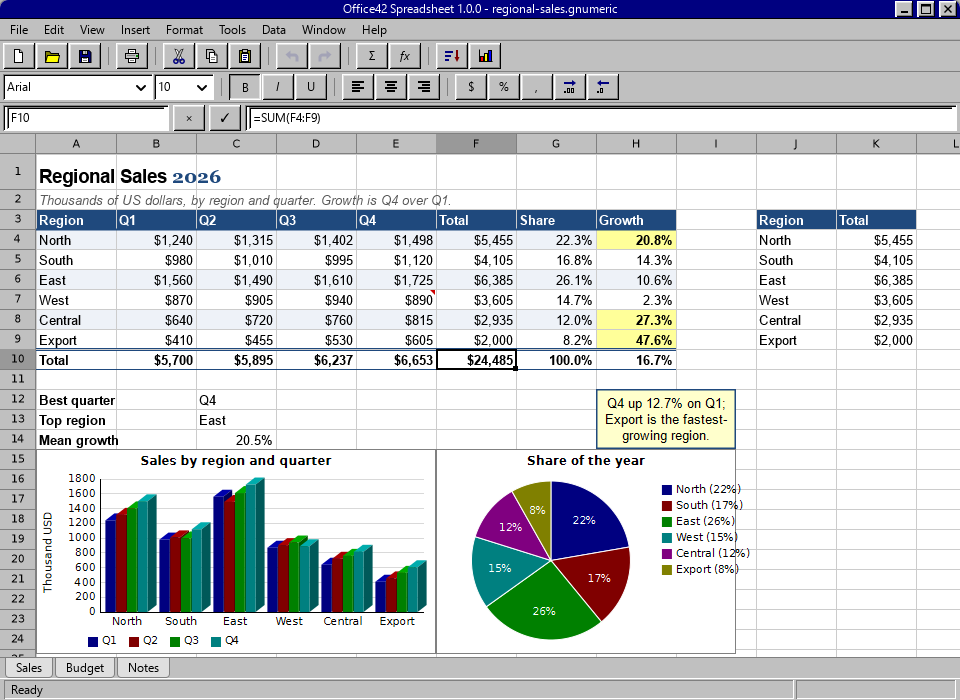
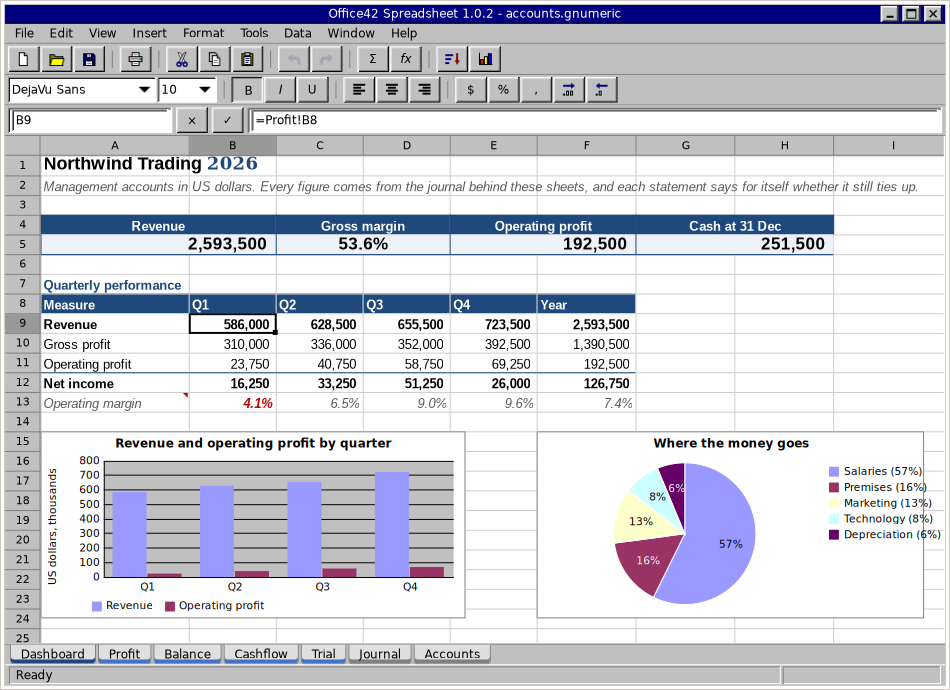
The website catches up with main: Excel 97, 637 functions, 1.0.2 and the accounts
main now aims at Excel 97 rather than Excel 5, and the site says so
in the title, the description, the hero and the goals, where Excel 97
leads and Gnumeric is the standard the arithmetic is held to.  The
numbers strip has 637 functions and Gnumeric's grid of 16,777,216
rows.  The features grid is twelve cards drawn from the README and the
guide as they stand: the Format Cells tabs and the Accounting format,
the reference operators, auditing and the Watch Window, pie of pie,
Excel 97's chart colours, AutoShapes and freeforms, the data form,
live What-If tables and the Solver's whole numbers, money and dates
(EUROCONVERT, the 1904 system, precision as displayed, the templates),
.xlsx Strict and .xlsm, Page Setup's four tabs and Page Break Preview,
Alt+F8, events and the step debugger, and the shared smoke test.
PARITY.md's own score -- over 99% of Excel 97, about 98% of Gnumeric
-- introduces them.

The download section names 1.0.2 and links the release notes, gives
the smoke-test command, no longer says macOS builds with --werror (it
does not), and says the samples now include the accounts book.

The picture is the one main's README shows -- the dashboard of
samples/accounts.gnumeric with =Profit!B8 in the formula bar -- taken
with the 1.0.2 release, so the title bar reads 1.0.2 rather than
main's 1.0.2-dev.  It is 950 by 690, and the img says so.

Checked: built the 1.0.2 tag (517ea16) and the merged tree against
[…]

diff --git a/index.html b/index.html
@@ -3,12 +3,12 @@
 <head>
 <meta charset="utf-8">
 <meta name="viewport" content="width=device-width, initial-scale=1">
-<title>Office42 Spreadsheet — a spreadsheet in the shape of Excel 5</title>
-<meta name="description" content="Office42 Spreadsheet is a spreadsheet in the shape of Excel 5 and at parity with Gnumeric, written from scratch in C on GTK 4, Pango and Cairo. 610 functions, charts, pivot tables, Python scripting, and .gnumeric, .xlsx, .xls, .ods and CSV files. Free software, GPL-3.0-or-later.">
+<title>Office42 Spreadsheet — a spreadsheet in the shape of Excel 97</title>
+<meta name="description" content="Office42 Spreadsheet is a spreadsheet in the shape of Excel 97, at feature parity with it and with Gnumeric, written from scratch in C on GTK 4, Pango and Cairo. 637 functions, charts, pivot tables, Python scripting, and .gnumeric, .xlsx, .xls, .ods and CSV files. Free software, GPL-3.0-or-later.">
 <link rel="canonical" href="https://office42.net/">
 <meta property="og:type" content="website">
-<meta property="og:title" content="Office42 Spreadsheet — a spreadsheet in the shape of Excel 5">
-<meta property="og:description" content="A spreadsheet in the shape of Excel 5 and at parity with Gnumeric, written from scratch in C on GTK 4, Pango and Cairo. Free software, GPL-3.0-or-later.">
+<meta property="og:title" content="Office42 Spreadsheet — a spreadsheet in the shape of Excel 97">
+<meta property="og:description" content="A spreadsheet in the shape of Excel 97, at feature parity with it and with Gnumeric, written from scratch in C on GTK 4, Pango and Cairo. Free software, GPL-3.0-or-later.">
 <meta property="og:url" content="https://office42.net/">
 <meta property="og:image" content="https://office42.net/images/screenshot.png">
 <meta name="twitter:card" content="summary_large_image">
@@ -212,20 +212,21 @@
           <img class="logo" src="images/logo.svg" width="520" height="150"
                alt="Office42 Spreadsheet: a sheet of cells marked 42, beside the name in light blue with one rule under it">
         </h1>
-        <p class="lead">A spreadsheet in the shape of Excel&nbsp;5 and at parity with Gnumeric,
-        written from scratch in C on GTK&nbsp;4, Pango and Cairo. A grid, a formula bar, a name
-        box, two toolbars and sheet tabs along the bottom. No ribbon.</p>
+        <p class="lead">A spreadsheet in the shape of Excel&nbsp;97, at feature parity with it
+        and with Gnumeric, written from scratch in C on GTK&nbsp;4, Pango and Cairo. A grid, a
+        formula bar, a name box, two toolbars and sheet tabs along the bottom. No ribbon.</p>
         <p>The sister project of <a href="https://word42.org/">Word42</a>, built on the same
-        principles: a small, honest codebase that does one thing well.</p>
+        principles: a small, honest codebase that does one thing well. Numbers42 is its other
+        name, and means the same program.</p>
         <p style="margin-top:1.5rem">
           <a class="btn btn-solid" href="#download">Get it</a>
           <a class="btn btn-outline" href="https://github.com/office-42/office42">View on GitHub</a>
         </p>
       </div>
       <figure>
-        <img class="screenshot" src="images/screenshot.png" width="960" height="700"
-             alt="Office42 Spreadsheet showing a regional sales sheet: a title set in two fonts in one cell, a styled heading row, currency and percent formats, a total row with SUM and INDEX/MATCH formulas, conditional formats on the growth column, a note, a text box, frozen panes, a three-dimensional column chart, a pie chart with labels, and three sheet tabs">
-        <figcaption class="muted small"><em>A regional sales book: conditional formats, a note, frozen panes, a three-dimensional column chart, a pie chart and three sheet tabs.</em></figcaption>
+        <img class="screenshot" src="images/screenshot.png" width="950" height="690"
+             alt="Office42 Spreadsheet 1.0.2 showing the dashboard of a set of accounts: a title set in two fonts in one cell, a strip of four merged key figures — revenue, gross margin, operating profit and cash — over a quarterly table in the Accounting number format, an operating margin row with a conditional format on the weakest quarter and a note attached, the formula bar showing the cross-sheet formula =Profit!B8, a column chart of revenue and operating profit by quarter with its axis in thousands, a pie chart of operating expenses with labels and a legend, and seven coloured sheet tabs — Dashboard, Profit, Balance, Cashflow, Trial, Journal and Accounts">
+        <figcaption class="muted small"><em>A year of a trading company's accounts on seven sheets, every figure drawn from one journal: this is the dashboard, with a cross-sheet formula in the formula bar.</em></figcaption>
       </figure>
     </div>
   </div>
@@ -233,8 +234,8 @@
 
 <div class="numbers">
   <div class="container">
-    <div><strong>610</strong><span>functions, every one Excel 2003 has and Gnumeric's own besides</span></div>
-    <div><strong>1,048,576 × 16,384</strong><span>rows by columns, and an empty cell costs nothing</span></div>
+    <div><strong>637</strong><span>functions, every one Excel 2003 has and Gnumeric's own besides</span></div>
+    <div><strong>16,777,216 × 16,384</strong><span>rows by columns, Gnumeric's grid, and an empty cell costs nothing</span></div>
     <div><strong>17</strong><span>kinds of chart, in two or three dimensions</span></div>
     <div><strong>3</strong><span>platforms built on every push: Linux, macOS and Windows</span></div>
   </div>
@@ -245,7 +246,8 @@
     <h2>What it does</h2>
     <p class="muted">A working spreadsheet, not a demo. Everything below ships today, and
     <a href="https://github.com/office-42/office42/blob/main/docs/PARITY.md">docs/PARITY.md</a>
-    is an honest estimate of how far it is from Excel and from Gnumeric.</p>
+    keeps the score menu by menu: an honest estimate of over 99% of Excel&nbsp;97, and about
+    98% of Gnumeric.</p>
     <div class="grid">
       <div>
         <h3>The window</h3>
@@ -253,82 +255,118 @@
           <li>Excel's keys: Enter steps down, Tab steps right, Tab-Tab-Enter returns to the column the row began in</li>
           <li>The formula bar is the same edit as the cell, every reference in its own colour</li>
           <li>Function names offered as you type, and the signature of the call the caret is in</li>
-          <li>Point mode, F4 on the dollars, the fill handle, drag-and-drop, AutoComplete</li>
-          <li>Zoom, freeze and split panes, custom views, outline groups, a second window on the same book</li>
+          <li>Point mode, F4 on the dollars, the fill handle, drag-and-drop, AutoComplete and AutoCorrect</li>
+          <li>Edit ▸ Fill up, left, a series, justified text and across worksheets; Move or Copy Sheet</li>
+          <li>Zoom, freeze and split panes, custom views, a second window on the same book</li>
           <li>Undo of everything, deleting a sheet included</li>
         </ul>
       </div>
       <div>
         <h3>Formatting</h3>
         <ul>
-          <li>Excel 5's tabbed Format Cells dialog</li>
-          <li>Number formats in Excel's own code language: <code>#,##0.00;[Red](#,##0.00)</code>, <code>[h]:mm</code></li>
+          <li>Excel 97's Format Cells dialog, with its six tabs</li>
+          <li>Number formats in Excel's own code language: <code>#,##0.00;[Red](#,##0.00)</code>, <code>[h]:mm</code>, and the Accounting format</li>
           <li>Rich text with several fonts in one cell</li>
-          <li>Borders of every style and colour, pattern fills, indent, rotation, merged cells</li>
-          <li>Named cell styles that restyle every cell wearing them, and conditional formats</li>
+          <li>Borders of every style and colour, Excel's eighteen patterns, indent, rotation, shrink to fit, merged cells</li>
+          <li>Named cell styles that restyle every cell wearing them, and conditional formats with formulas in them</li>
+          <li>Tab colours, sheet backgrounds, hidden sheets</li>
           <li>Formats are interned, so a thousand bold cells share one record</li>
         </ul>
       </div>
       <div>
         <h3>Formulas</h3>
         <ul>
-          <li>Excel's precedence, <code>A1</code> and <code>$A$1</code>, whole rows and columns, 3-D references, names</li>
-          <li>Structured references into tables, array constants, <code>LET</code> and <code>LAMBDA</code></li>
+          <li>Excel's precedence, <code>A1</code> and <code>$A$1</code>, whole rows and columns, 3-D references, the union, the intersection and <code>@</code></li>
+          <li>Names defined, pasted, created from a table's labels and applied; structured references into tables</li>
+          <li>Array constants, <code>LET</code>, and <code>LAMBDA</code> kept under a name</li>
           <li>Array formulas with Ctrl+Shift+Enter, and dynamic arrays that spill</li>
-          <li>Demand-driven recalculation with dirty flags; circular references reported, not followed</li>
-          <li>Statistics in two passes so they are accurate; the distributions on regularised incomplete gamma and beta functions</li>
-          <li>Bond arithmetic on the five day-count bases, the <code>.INTL</code> dates, the Excel 365 text and array functions</li>
+          <li>Demand-driven recalculation with dirty flags; circular references reported, or gone round when asked</li>
+          <li>Trace precedents, dependents and errors, Evaluate Formula a step at a time, a Watch Window, and the green corner on a cell the error checking doubts</li>
         </ul>
       </div>
       <div>
-        <h3>Charts and objects</h3>
+        <h3>Functions</h3>
+        <ul>
+          <li>637 of them: every one Excel 2003 has, and the Excel 365 text, array and regular-expression functions</li>
+          <li>Statistics in two passes so they are accurate; the distributions on regularised incomplete gamma and beta functions</li>
+          <li>Bond arithmetic on the five day-count bases, and the <code>.INTL</code> dates</li>
+          <li>Gnumeric's functions that Excel leaves out: the complex functions, twenty-eight random distributions, number theory</li>
+          <li><code>FOURIER</code>, <code>HPFILTER</code>, <code>INTERPOLATION</code>, <code>PERIODOGRAM</code>, the movable feasts, the Hebrew calendar, and Black and Scholes with its Greeks</li>
+        </ul>
+      </div>
+      <div>
+        <h3>Charts</h3>
         <ul>
           <li>Column, bar, line, area, pie, doughnut, radar, bubble, stock, surface, box and whiskers, histogram, polar, contour and XY scatter</li>
-          <li>Trendlines, error bars, a second value axis, chart sheets</li>
+          <li>Pie of pie and bar of pie</li>
+          <li>Trendlines, error bars, markers or a picture at each point, a second value axis, chart sheets</li>
+          <li>Excel 97's own colours: its chart fills, its chart lines and its grey plot area</li>
           <li>Redrawn from the cells every time they are painted</li>
-          <li>Pictures, shapes, text boxes, grouped objects, notes and hyperlinks</li>
-          <li>The nine form controls of Excel's Forms toolbar, each bound to a cell</li>
+        </ul>
+      </div>
+      <div>
+        <h3>Pictures and shapes</h3>
+        <ul>
+          <li>Pictures from a file, or from the scanner or the camera; cropped, with brightness and contrast</li>
+          <li>Excel's AutoShapes — stars, block arrows, callouts, flowchart symbols — and freeforms drawn point by point</li>
+          <li>Gradient and pattern fills, shadows, dashed lines and a head of any kind at either end</li>
+          <li>Turned to any angle and mirrored, grouped, ordered, and moving and sizing with the cells under them</li>
+          <li>Notes, hyperlinks, and the nine form controls of Excel's Forms toolbar, each bound to a cell</li>
         </ul>
       </div>
       <div>
         <h3>Data</h3>
         <ul>
-          <li>Sort, Find and Replace, AutoFilter and Advanced Filter, Text to Columns, Remove Duplicates</li>
-          <li>Subtotals, Consolidate, Scenarios, Data Validation, Tables</li>
-          <li>Pivot Tables with calculated fields and page filters</li>
-          <li>Goal Seek and a Solver</li>
-          <li>Descriptive statistics, correlation, covariance, regression, histogram, ANOVA, rank and percentile, moving average</li>
-          <li>Each one is a single undo step</li>
+          <li>Sort, the data form, Find and Replace, AutoFilter and Advanced Filter, Remove Duplicates</li>
+          <li>Text to Columns, at a separator or at fixed widths on a ruler</li>
+          <li>Validation with an input message, Excel's three error styles and circles round what breaks the rule</li>
+          <li>Subtotals, an outline worked out from the sums, Consolidate, Tables</li>
+          <li>Pivot Tables with calculated fields, page filters, and dates grouped by years and quarters</li>
+          <li>What-If tables that stay live, Scenarios with a summary sheet, Goal Seek, and a Solver that takes whole numbers and writes its report</li>
+          <li>The statistical analysis tools: descriptive statistics to moving averages</li>
+        </ul>
+      </div>
+      <div>
+        <h3>Money and dates</h3>
+        <ul>
+          <li>The Accounting format, with the symbol at one edge and the number at the other</li>
+          <li>The machine's currency, or the one Options is told, and Format Cells offers the rest</li>
+          <li><code>EUROCONVERT</code> and Tools ▸ Euro Conversion, at the rates the euro's members fixed</li>
+          <li>The 1904 date system, precision as displayed, and a fixed decimal for what is typed</li>
+          <li>Templates an accountant would reach for: a loan schedule, an invoice, an expense report, a balance sheet</li>
+          <li>The Conditional Sum and Lookup wizards</li>
         </ul>
       </div>
       <div>
         <h3>Files</h3>
         <ul>
           <li>Gnumeric's <code>.gnumeric</code>, which carries everything</li>
-          <li>Excel's <code>.xlsx</code> and <code>.xls</code>, with formulas, styles, charts, shapes, tables, names and notes</li>
-          <li>OpenDocument <code>.ods</code>, checked against LibreOffice both ways</li>
-          <li>HTML, CSV, DIF, SYLK, LaTeX and Lotus 1-2-3</li>
-          <li>Printing, print preview, page setup with headers and footers, PDF out and in</li>
-          <li>The zip and OLE2 containers are a few hundred lines each; no library was added</li>
+          <li>Excel's <code>.xlsx</code>, the Strict form too, and <code>.xls</code>, with formulas, styles, charts, shapes, tables, names and notes, opening in Excel, LibreOffice and Gnumeric</li>
+          <li>An <code>.xlsm</code> keeps its Visual Basic for Excel</li>
+          <li>OpenDocument <code>.ods</code> and <code>.fods</code>, checked against LibreOffice both ways</li>
+          <li>HTML, CSV, DIF, SYLK, LaTeX and Lotus 1-2-3; PDF out and in</li>
+          <li>A big book reads in seconds; the zip and OLE2 containers are a few hundred lines each, and no library was added</li>
+        </ul>
+      </div>
+      <div>
+        <h3>Printing</h3>
+        <ul>
+          <li>Page Setup with Excel's four tabs, kept in every file format</li>
+          <li>Headers and footers in Excel's notation, and its Custom Header and Custom Footer dialog</li>
+          <li>Several print areas, and rows and columns repeated on every page</li>
+          <li>Page Break Preview with breaks to drag, and a print preview whose margins drag too</li>
+          <li>PDF of the sheet or the book, drawn exactly as the printer would</li>
         </ul>
       </div>
       <div>
         <h3>Automation</h3>
         <ul>
           <li>Python instead of Visual Basic: a console with <code>book</code> and <code>sheet</code> bound</li>
-          <li>Scripts kept in the file, and a macro recorder that writes Python</li>
+          <li>The Macros dialog on Alt+F8, shortcuts on Ctrl+Shift+letter, and a recorder that writes Python</li>
+          <li>Scripts kept in the file, a step debugger, and events for a change, a selection, opening, closing and saving</li>
           <li><code>=PY("expression")</code> in a cell; functions defined in Python appear in the Function Wizard</li>
           <li>A book that arrives with scripts offers to run them and never runs them by itself</li>
           <li>A SQLite database beside the book or inside it, asked from Data ▸ Get Data or <code>=SQLVALUE(...)</code></li>
-        </ul>
-      </div>
-      <div>
-        <h3>Beyond Excel</h3>
-        <ul>
-          <li>Gnumeric's functions that Excel leaves out: the complex functions, twenty-eight random distributions, number theory</li>
-          <li><code>FOURIER</code>, <code>HPFILTER</code>, <code>INTERPOLATION</code>, <code>PERIODOGRAM</code></li>
-          <li>The movable feasts, and Black and Scholes with its Greeks</li>
-          <li>Spelling with Hunspell</li>
         </ul>
       </div>
       <div>
@@ -336,8 +374,9 @@
         <ul>
           <li><code>office42-calc</code> drives the whole engine from standard input</li>
           <li>The model and the formula engine never include GTK, so the engine builds as a library of its own</li>
-          <li><code>office42 --screenshot</code> renders the window to a PNG with nobody at the keyboard</li>
-          <li>It is how every change is checked</li>
+          <li><code>office42 --screenshot</code> renders the window to a PNG with nobody at the keyboard; the picture above was taken that way</li>
+          <li>One smoke test that the three platforms' builds all run</li>
+          <li>Spelling with Hunspell</li>
         </ul>
       </div>
     </div>
@@ -394,15 +433,19 @@ docs/          the guide, the architecture, the parity review</code></pre>
     <h2>Two programs to aim at</h2>
     <div class="goals">
       <div class="goal">
-        <h3>Gnumeric</h3>
-        <p>For what a free spreadsheet should be able to do and for how to do it right. Gnumeric was
-        built by people who cared about numerical correctness more than about features, and that
-        is the standard to hold to.</p>
+        <h3>Microsoft Excel 97</h3>
+        <p>For what it should do and how it should look. Excel&nbsp;97 is the target for feature
+        parity: every menu, every dialog and every command it had is meant to be here and to
+        behave as it did there, and its shape is this program's shape: a grid, a formula bar, a
+        name box, two toolbars and sheet tabs along the bottom. No ribbon.</p>
+        <p>Later Excels are drawn on where they got something right: dynamic arrays,
+        <code>LET</code> and <code>LAMBDA</code>, the <code>.xlsx</code> file.</p>
       </div>
       <div class="goal">
-        <h3>Microsoft Excel 5 (1993)</h3>
-        <p>For what it should look like and how it should behave: a grid, a formula bar, a name box,
-        two toolbars and sheet tabs along the bottom. No ribbon.</p>
+        <h3>Gnumeric</h3>
+        <p>For how to do it right. Gnumeric was built by people who cared about numerical
+        correctness more than about features, and that is the standard the arithmetic is held
+        to. Its grid of 16,777,216 rows is this one's too.</p>
       </div>
     </div>
     <p style="margin-top:1.5rem">Not planned: the ribbon, Visual Basic, co-authoring, Power Query and
@@ -415,9 +458,10 @@ docs/          the guide, the architecture, the parity review</code></pre>
 <section class="alt" id="download">
   <div class="container">
     <h2>Get Office42</h2>
-    <p class="muted">Version 1.0.0. On Windows it is in the Microsoft Store; on Linux, macOS and
-    Windows it builds from source, and every push to <code>main</code> is built and smoke-tested
-    on all three.</p>
+    <p class="muted">Version 1.0.2, released 21 September 2026; the
+    <a href="https://github.com/office-42/office42/releases">release notes</a> are on GitHub.
+    On Windows it is in the Microsoft Store; on Linux, macOS and Windows it builds from source,
+    and every push to <code>main</code> is built and smoke-tested on all three.</p>
     <div class="two">
       <div>
         <h3>Building</h3>
@@ -429,7 +473,10 @@ meson setup builddir
 meson compile -C builddir
 ./builddir/src/office42        # the window
 ./builddir/src/office42-calc   # the engine, from a terminal</code></pre>
-        <p class="small muted" style="margin-top:1rem">Per-platform dependency lists are the same as
+        <p class="small muted" style="margin-top:1rem"><code>sh build-aux/smoke-test.sh
+        builddir/src/office42-calc</code> puts the engine through its paces afterwards: formulas,
+        recalculation, undo, the five file formats, Python and the database.</p>
+        <p class="small muted">Per-platform dependency lists are the same as
         Word42's; see its
         <a href="https://github.com/office-42/word42/blob/main/docs/BUILD.md">docs/BUILD.md</a>.
         The toolbar icons are SVG, so gdk-pixbuf wants its SVG loader at run time
@@ -446,13 +493,18 @@ meson compile -C builddir
         <a href="https://github.com/office-42/office42/actions/workflows/linux.yml">Linux</a>,
         <a href="https://github.com/office-42/office42/actions/workflows/macos.yml">macOS</a> and
         <a href="https://github.com/office-42/office42/actions/workflows/windows.yml">Windows</a>
-        workflows build every push with <code>--werror</code> and smoke-test the engine. The
-        Windows job also uploads a bundle that runs without MSYS2, and the Store package made
-        from it, as artifacts of each run.</p>
+        workflows build every push and run the same smoke test, and the Linux and Windows builds
+        treat a warning as an error; Linux builds on the newest Ubuntu GitHub keeps. The Windows
+        job also makes a
+        bundle that runs without MSYS2, smoke-tests it again, and uploads it and the Store
+        package made from it as artifacts of each run.</p>
         <h3 style="margin-top:1.5rem">Sample books</h3>
         <p>The repository's <a href="https://github.com/office-42/office42/tree/main/samples"><code>samples/</code></a>
         folder holds books that exercise the formats and the function library in
-        <code>.xlsx</code>, <code>.xls</code> and <code>.fods</code>.</p>
+        <code>.xlsx</code>, <code>.xls</code> and <code>.fods</code>, and two that office42 writes
+        itself from <code>office42-calc</code> scripts: an income statement, and the year of
+        accounts in the picture above. Nothing in the accounts is typed twice, and four of its
+        sheets end in a line that says in words whether the sums still tie up.</p>
         <p><a class="btn btn-solid" href="https://github.com/office-42/office42">Source on GitHub</a></p>
       </div>
     </div>
@@ -469,7 +521,7 @@ meson compile -C builddir
       </div>
       <div>
         <h3><a href="https://github.com/office-42/office42/blob/main/docs/PARITY.md">The parity review</a></h3>
-        <p>A review of the code, module by module, and an honest estimate of how far it is from Excel and from Gnumeric.</p>
+        <p>A review of the code, module by module, and the score against Excel&nbsp;97, menu by menu, and against Gnumeric.</p>
       </div>
       <div>
         <h3><a href="https://github.com/office-42/office42/blob/main/docs/ARCHITECTURE.md">Architecture</a></h3>
@@ -477,7 +529,7 @@ meson compile -C builddir
       </div>
       <div>
         <h3><a href="https://github.com/office-42/office42/blob/main/docs/PYTHON.md">Python</a></h3>
-        <p>The console, the <code>office42</code> module, the macro recorder and <code>=PY()</code>.</p>
+        <p>The console, the <code>office42</code> module, events, the step debugger, the macro recorder and <code>=PY()</code>.</p>
       </div>
       <div>
         <h3><a href="https://github.com/office-42/office42/blob/main/docs/DATABASE.md">The database</a></h3>
